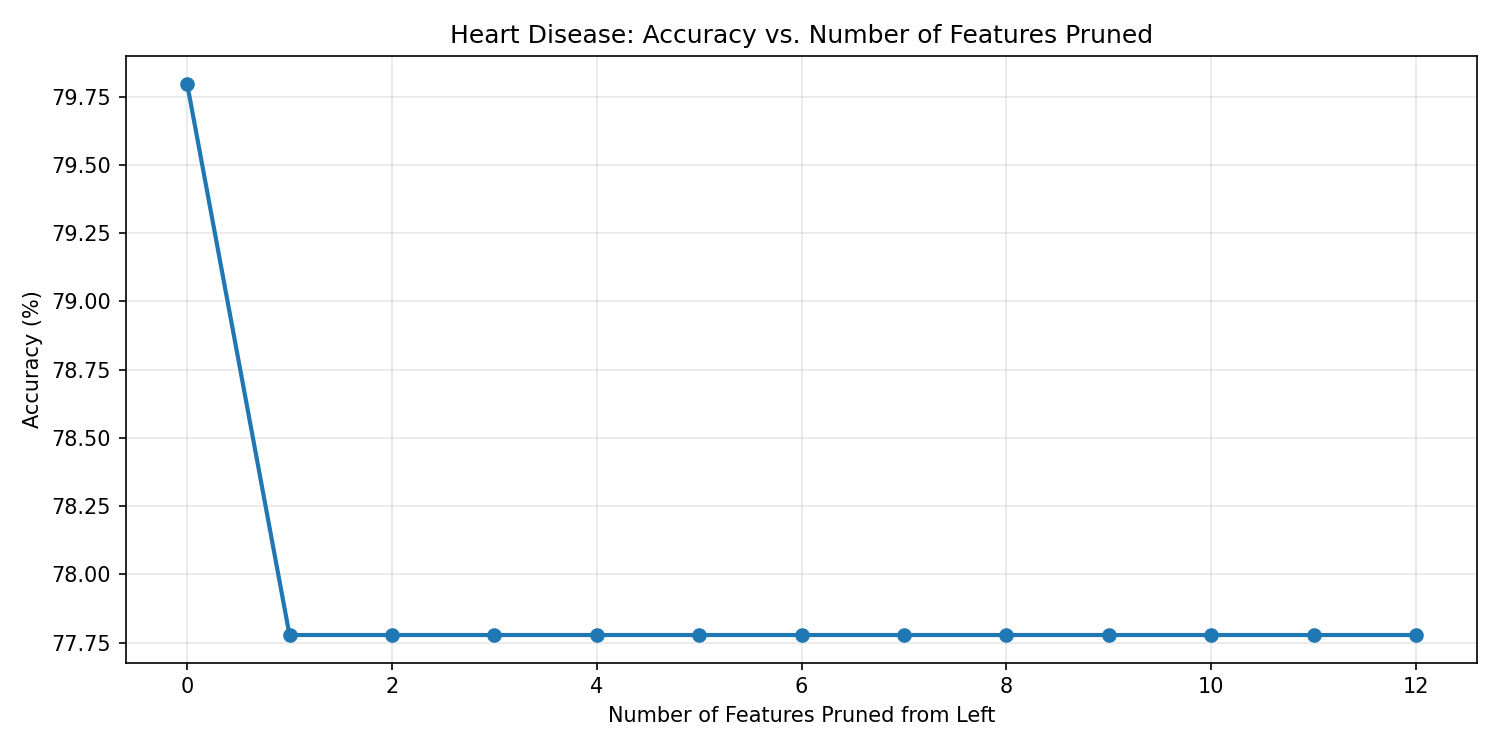
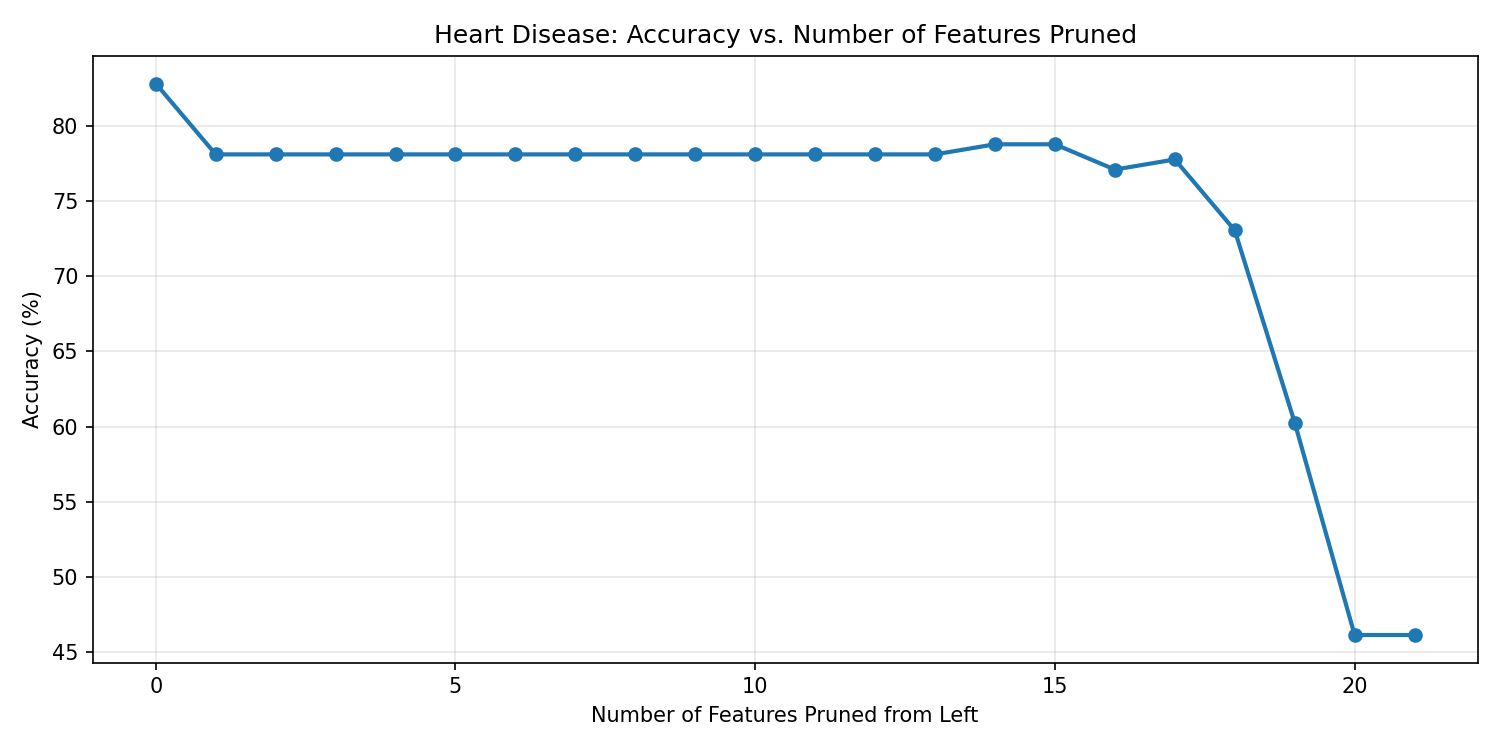
start converging

diff --git a/samples/breast-cancer/main.py b/samples/breast-cancer/main.py
@@ -55,7 +55,7 @@ feature_names = X.columns.tolist()
 # Train/test split
 X_train_np, X_test_np, y_train_np, y_test_np = train_test_split(X, y, test_size=0.2, random_state=None)
 
-scaler2 = SigmoidScaler(alpha=4)
+scaler2 = SigmoidScaler(alpha=4, beta=-1)
 X_train_np = scaler2.fit_transform(X_train_np)
 X_test_np = scaler2.transform(X_test_np)
 
@@ -73,7 +73,7 @@ X_test = torch.tensor(X_test_np, dtype=torch.float32).to(device)
 freeze_loss_threshold = 0.07
 aggregator = 'lsp.half_weight' 
 weight_mode = 'fixed'
-acceptance_threshold = 0.98
+acceptance_threshold = 0.95
 weight_penalty_strength=1e-2 
 
 
@@ -93,6 +93,7 @@ bacon = baconNet(
                                                         use_hierarchical_permutation=True,
                                                         hierarchical_epochs_per_attempt=2000,
                                                         hierarchical_group_size=8,
+                                                        hierarchical_bleed_ratio=0.5,
                                                         acceptance_threshold=acceptance_threshold, 
                                                         loss_weight_perm_sparsity=5.0,
                                                         sinkhorn_iters=300,

diff --git a/samples/heart-disease/main.py b/samples/heart-disease/main.py
@@ -138,7 +138,7 @@ print(f"\nTrain data shape: {X_train_np.shape}, dtype: {X_train_np.dtype}")
 print(f"Test data shape: {X_test_np.shape}, dtype: {X_test_np.dtype}")
 
 # Normalize features using SigmoidScaler
-scaler = SigmoidScaler(alpha=4)
+scaler = SigmoidScaler(alpha=4, beta=-1)
 X_train_np = scaler.fit_transform(X_train_np)
 X_test_np = scaler.transform(X_test_np)
 
@@ -152,7 +152,7 @@ X_test = torch.tensor(X_test_np, dtype=torch.float32).to(device)
 freeze_loss_threshold = 0.07
 aggregator = 'lsp.half_weight' 
 weight_mode = 'fixed'
-acceptance_threshold = 0.80
+acceptance_threshold = 0.8
 weight_penalty_strength = 1e-3
 
 # Update input size based on encoded features
@@ -239,7 +239,8 @@ accuracies = [best_score_accuracy]
 accuracy_drops = []
 feature_contributions = []
 
-for i in range(1, 13):
+# Prune based on actual number of features after one-hot encoding
+for i in range(1, num_features):
     func_eval = bacon.prune_features(i)
     kept_indices = bacon.assembler.locked_perm[i:].tolist()
     removed_feature_idx = bacon.assembler.locked_perm[i - 1].item()
